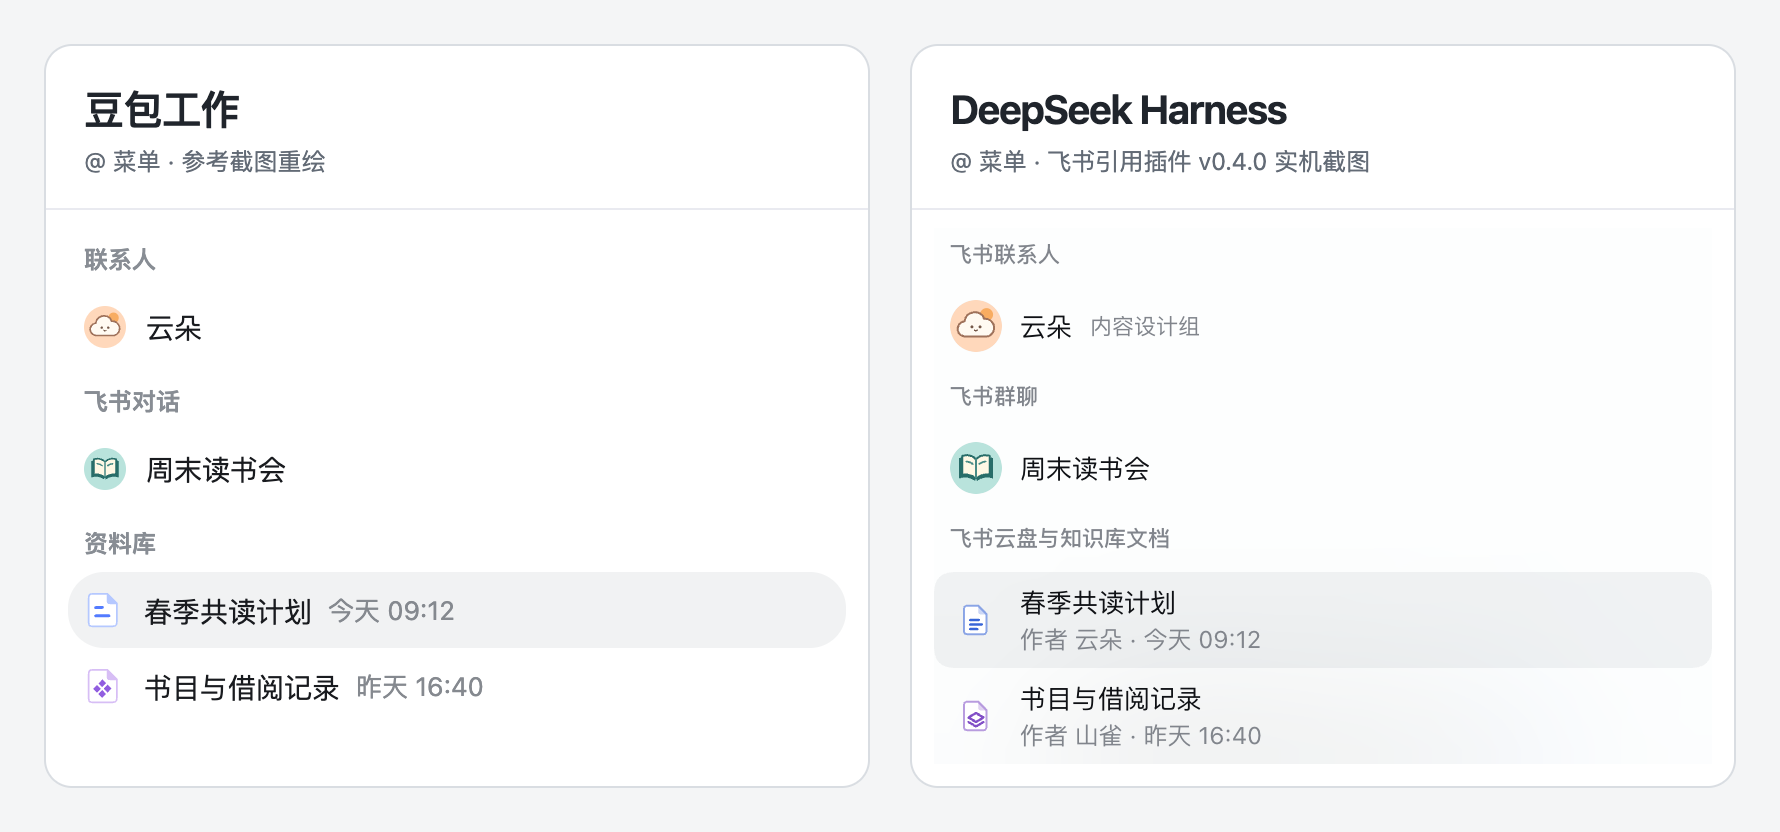
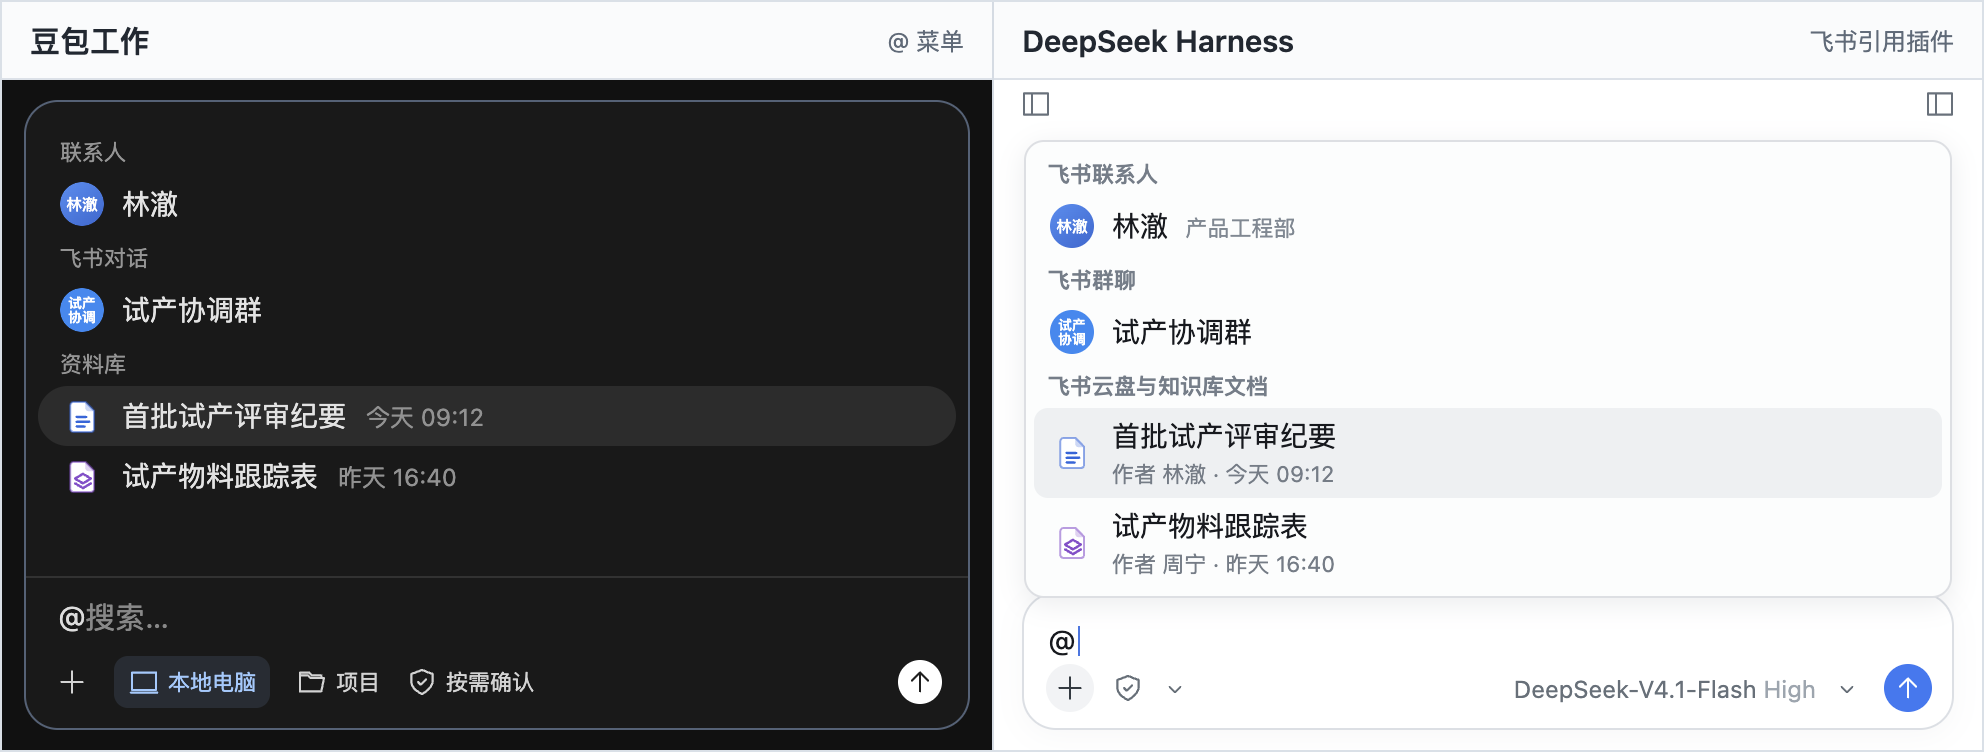
Show everyday Feishu workflows in animated mention demos

diff --git a/README.md b/README.md
@@ -1,14 +1,22 @@
 # DeepSeek Harness 飞书引用
 
-在 DeepSeek Harness 输入框键入 `@`，就能搜索并引用飞书联系人、群聊、云文档和知识空间。插件使用每位用户自己的飞书 CLI 登录身份。联系人和群聊显示飞书头像，文档按类型显示图标，同时展示可见的作者和最后修改时间。
+周五要试产，你想让 DeepSeek 从评审纪要里列出待办。在对话框输入 `@评审`，看一眼作者，选中「首批试产评审纪要」，接着写「列出试产前的待办」。同一个输入框也能找群聊、同事、表格和知识空间。
 
-## 灵感来自豆包工作
+[安装插件](#安装) · [查看发布版本](https://github.com/hayschan/dsh-feishu-mentions/releases)
 
-在豆包工作里，写提示词时键入 `@` 就能选中飞书里的人、群聊和资料，再接着写问题。这个插件把同样的交互带到了 DeepSeek Harness，省去了来回复制文档链接和群聊 ID 的步骤。
+## 引用文档，输入标题里的几个字
 
-![飞书 @ 菜单左右对比。左侧豆包工作按联系人、飞书对话和资料库分组，文档名后显示时间。右侧 DeepSeek Harness 插件在联系人姓名旁显示部门，在文档标题下显示作者和修改时间。](docs/images/feishu-mentions-comparison.png)
+手动引用要去飞书搜索、打开文档，点「分享 → 复制链接」，再切回 Harness 粘贴。装上插件，在写问题的地方输入 `@评审` 就能选文档。两份纪要名字相近时，作者和修改时间可以帮你认出要用的那份。
 
-两边使用同一组虚构资料。左侧按豆包工作参考截图重绘，右侧截自运行中的插件。以「春季共读计划」为例，左侧在标题后显示「今天 09:12」，右侧在标题下显示「作者 云朵 · 今天 09:12」。
+![文档引用流程对比。左侧在飞书搜索并打开《首批试产评审纪要》，从分享面板复制链接，回到 Harness 粘贴。右侧在对话框输入 @评审，选中纪要并写下「列出试产前的待办」。](docs/images/mention-document.gif)
+
+## 引用群聊，认出群头像就能选
+
+手动找群聊 ID 要搜索群名、打开右上角「···」、把群设置滚到底，再复制会话 ID。现在输入 `@协调`，选中「试产协调群」，接着问「哪些物料还没到齐？」。
+
+![群聊引用流程对比。左侧在飞书进入试产协调群，打开群设置，滚到最下方复制会话 ID，回到 Harness 粘贴。右侧在 Harness 输入 @协调，按群头像和群名选中，接着写物料问题。](docs/images/mention-chat.gif)
+
+如果希望把评审纪要正文或最近的群消息也一起发给模型，选择 `@摘录:评审` 或 `@摘录:协调`。动图按飞书与 Harness 的界面和操作重绘，使用虚构的试产项目资料。[飞书的文档分享说明](https://www.feishu.cn/hc/zh-CN/articles/360049067526)
 
 ## 安装
 
@@ -19,25 +27,43 @@
    https://github.com/hayschan/dsh-feishu-mentions/releases/download/v0.4.0/dsh-feishu-mentions-0.4.0.tgz
    ```
 
-3. 打开一个工作区，输入 `@`。如果菜单提示找不到 CLI，请确认 Harness 进程的 PATH 包含 `lark-cli`，或在启动环境中把 `DSH_FEISHU_CLI` 设为该可执行文件的绝对路径。插件也会检查 macOS 的常用 Homebrew 安装位置。
+3. 打开一个工作区，输入 `@`。看到飞书联系人、群聊和云盘资料后，选中一项就可以开始提问。
+
+<details>
+<summary>菜单提示找不到飞书 CLI？</summary>
+
+在终端运行 `lark-cli auth status`。如果终端能找到 CLI，请确认 Harness 进程的 PATH 包含 `lark-cli`，或在启动环境中把 `DSH_FEISHU_CLI` 设为该可执行文件的绝对路径。插件也会检查 macOS 的常用 Homebrew 安装位置。
+
+</details>
 
 ## 在提示词中使用
 
 | 输入 | 菜单内容 |
 | --- | --- |
 | `@` | 最近联系过的人、活跃群聊、近一个月打开的资料和可见知识空间 |
-| `@读书会` | 跨类别搜索，可用鼠标或方向键和回车选择 |
+| `@试产` | 跨类别搜索，可用鼠标或方向键和回车选择 |
 | `@人:名字`、`@群:关键词` | 限定为联系人或群聊 |
 | `@文档:关键词`、`@知识库:关键词` | 搜索云盘文件与知识库页面，或按名称查找知识空间 |
 | `@摘录:关键词` | 选择文档或群聊，在发送时附上摘录 |
 
-可以在同一条提示词中选择多项。普通引用会将选中对象的名称、链接或 ID 及可见元数据随提示词发送给当前模型。选择摘录还会将云文档的前 6000 个 Unicode 字符，或最近最多 10 条群消息（合计最多 6000 字符）带入模型请求和会话记录。表格、文件夹和其他附件支持普通引用。联系人与群聊头像由客户端从飞书加载，仅用于显示。
+一条提示词可以引用多项。比如同时从 `@摘录:评审` 选中纪要，从 `@摘录:协调` 选中群聊，再问「纪要里列为缺料的项目，哪些已经在群里确认到货？」
 
-部门在姓名右侧显示。文档优先显示已核实的原作者，无法核实时会明确标为所有者或作者未提供。修改时间使用查看者的本地时区，最近三天显示为今天、昨天或前天，同一年内省略年份。
+普通引用随问题发送对象名称、链接或 ID 和可见元数据。选用摘录时，文档会附上前 6000 个 Unicode 字符，群聊会附上最近最多 10 条消息（合计最多 6000 个字符）。选中的内容会进入模型请求和会话记录。表格、文件夹和其他附件支持普通引用。
+
+## 灵感来自豆包工作
+
+在豆包工作里，写提示词时键入 `@` 就能选中飞书里的人、群聊和资料，再接着写问题。这个插件把同样的交互带到了 DeepSeek Harness，省去了来回复制文档链接和群聊 ID 的步骤。
+
+![飞书 @ 菜单左右对比。左侧豆包工作按联系人、飞书对话和资料库分组，文档名后显示时间。右侧 DeepSeek Harness 插件在联系人姓名旁显示部门，在文档标题下显示作者和修改时间。](docs/images/feishu-mentions-comparison.png)
+
+左侧依据豆包工作的深色菜单重绘，右侧依据运行中的 Harness 插件重绘。两边展示同一组虚构资料。在右侧可以看到「林澈」姓名旁的产品工程部，以及「首批试产评审纪要」标题下的作者和修改时间。
 
 ## 开发与反馈
 
-克隆仓库后，使用 Node.js 22 或更高版本。离线测试使用虚构数据，可以直接运行。
+<details>
+<summary>本地开发与离线测试</summary>
+
+使用 Node.js 22 或更高版本。测试使用虚构数据。
 
 ```sh
 git clone https://github.com/hayschan/dsh-feishu-mentions.git
@@ -47,6 +73,8 @@ npm pack --dry-run
 ```
 
 开发时可在 Harness 插件管理器中添加克隆目录的绝对路径。包名 `@local/dsh-feishu-mentions` 是 Harness 用来识别插件和已有引用的标识。插件运行时使用 Node.js 内置模块和宿主提供的 React。
+
+</details>
 
 欢迎通过 GitHub Issues 反馈问题，通过 pull request 提交功能或修复。复现样例请使用虚构的名称、链接和对象标识。[提交反馈](https://github.com/hayschan/dsh-feishu-mentions/issues)
 
